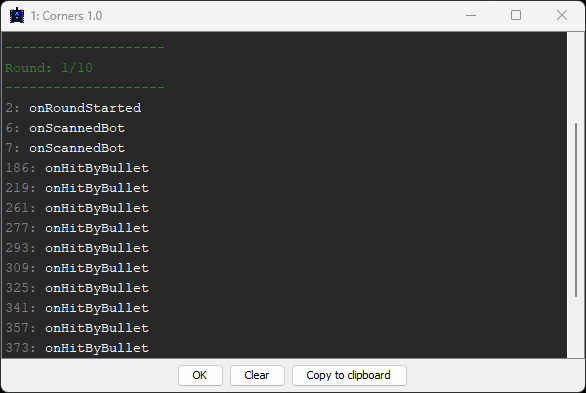
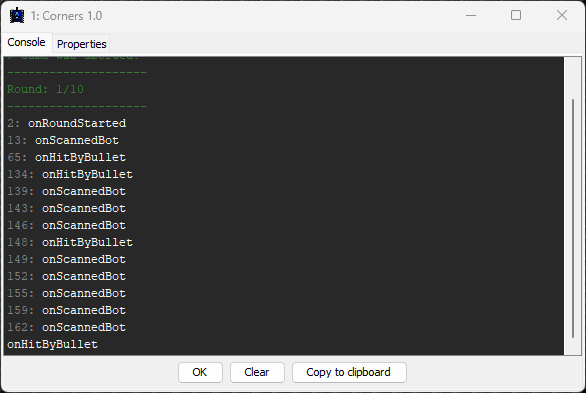
Updated documentation about viewing the bot properties.

Changed region(s): [[0.0, 0.0611, 1.0, 1.0]]

diff --git a/buildDocs/docs/articles/gui.md b/buildDocs/docs/articles/gui.md
@@ -133,7 +133,7 @@ When clicking on a 'bot button', the bot console window will open:
 
 ![Bot Console](../images/gui/bot-console.png)
 
-The bot console writes out the standard output (stdout) and standard error (stderr) printed out from the bots standout
+On the **Console** tab of the bot console writes out the standard output (stdout) and standard error (stderr) printed out from the bots standout
 output streams. Note that the standard output streams from the bot is being redirected by the Bot API when it is being
 booted from the [Booter].
 
@@ -146,6 +146,13 @@ error (stderr) is written out in <font color=#FF5733>red</font>.
 Info messages from the game (GUI) is written out in <font color=#377B37>green</font>. Info messages is e.g. round
 number, when a new round has just started. But it could also be "events" written out with a starting left arrow (>)
 telling that the game has ended or was aborted.
+
+### Viewing the bot properties
+
+The **Properties** tab of the bot console shows all the current bot properties for the current turn, which is useful
+to read the current states of the bot and useful debugging your bot.  
+
+![Bot Console](../images/gui/bot-properties.png)
 
 ## Setup Rules
 
